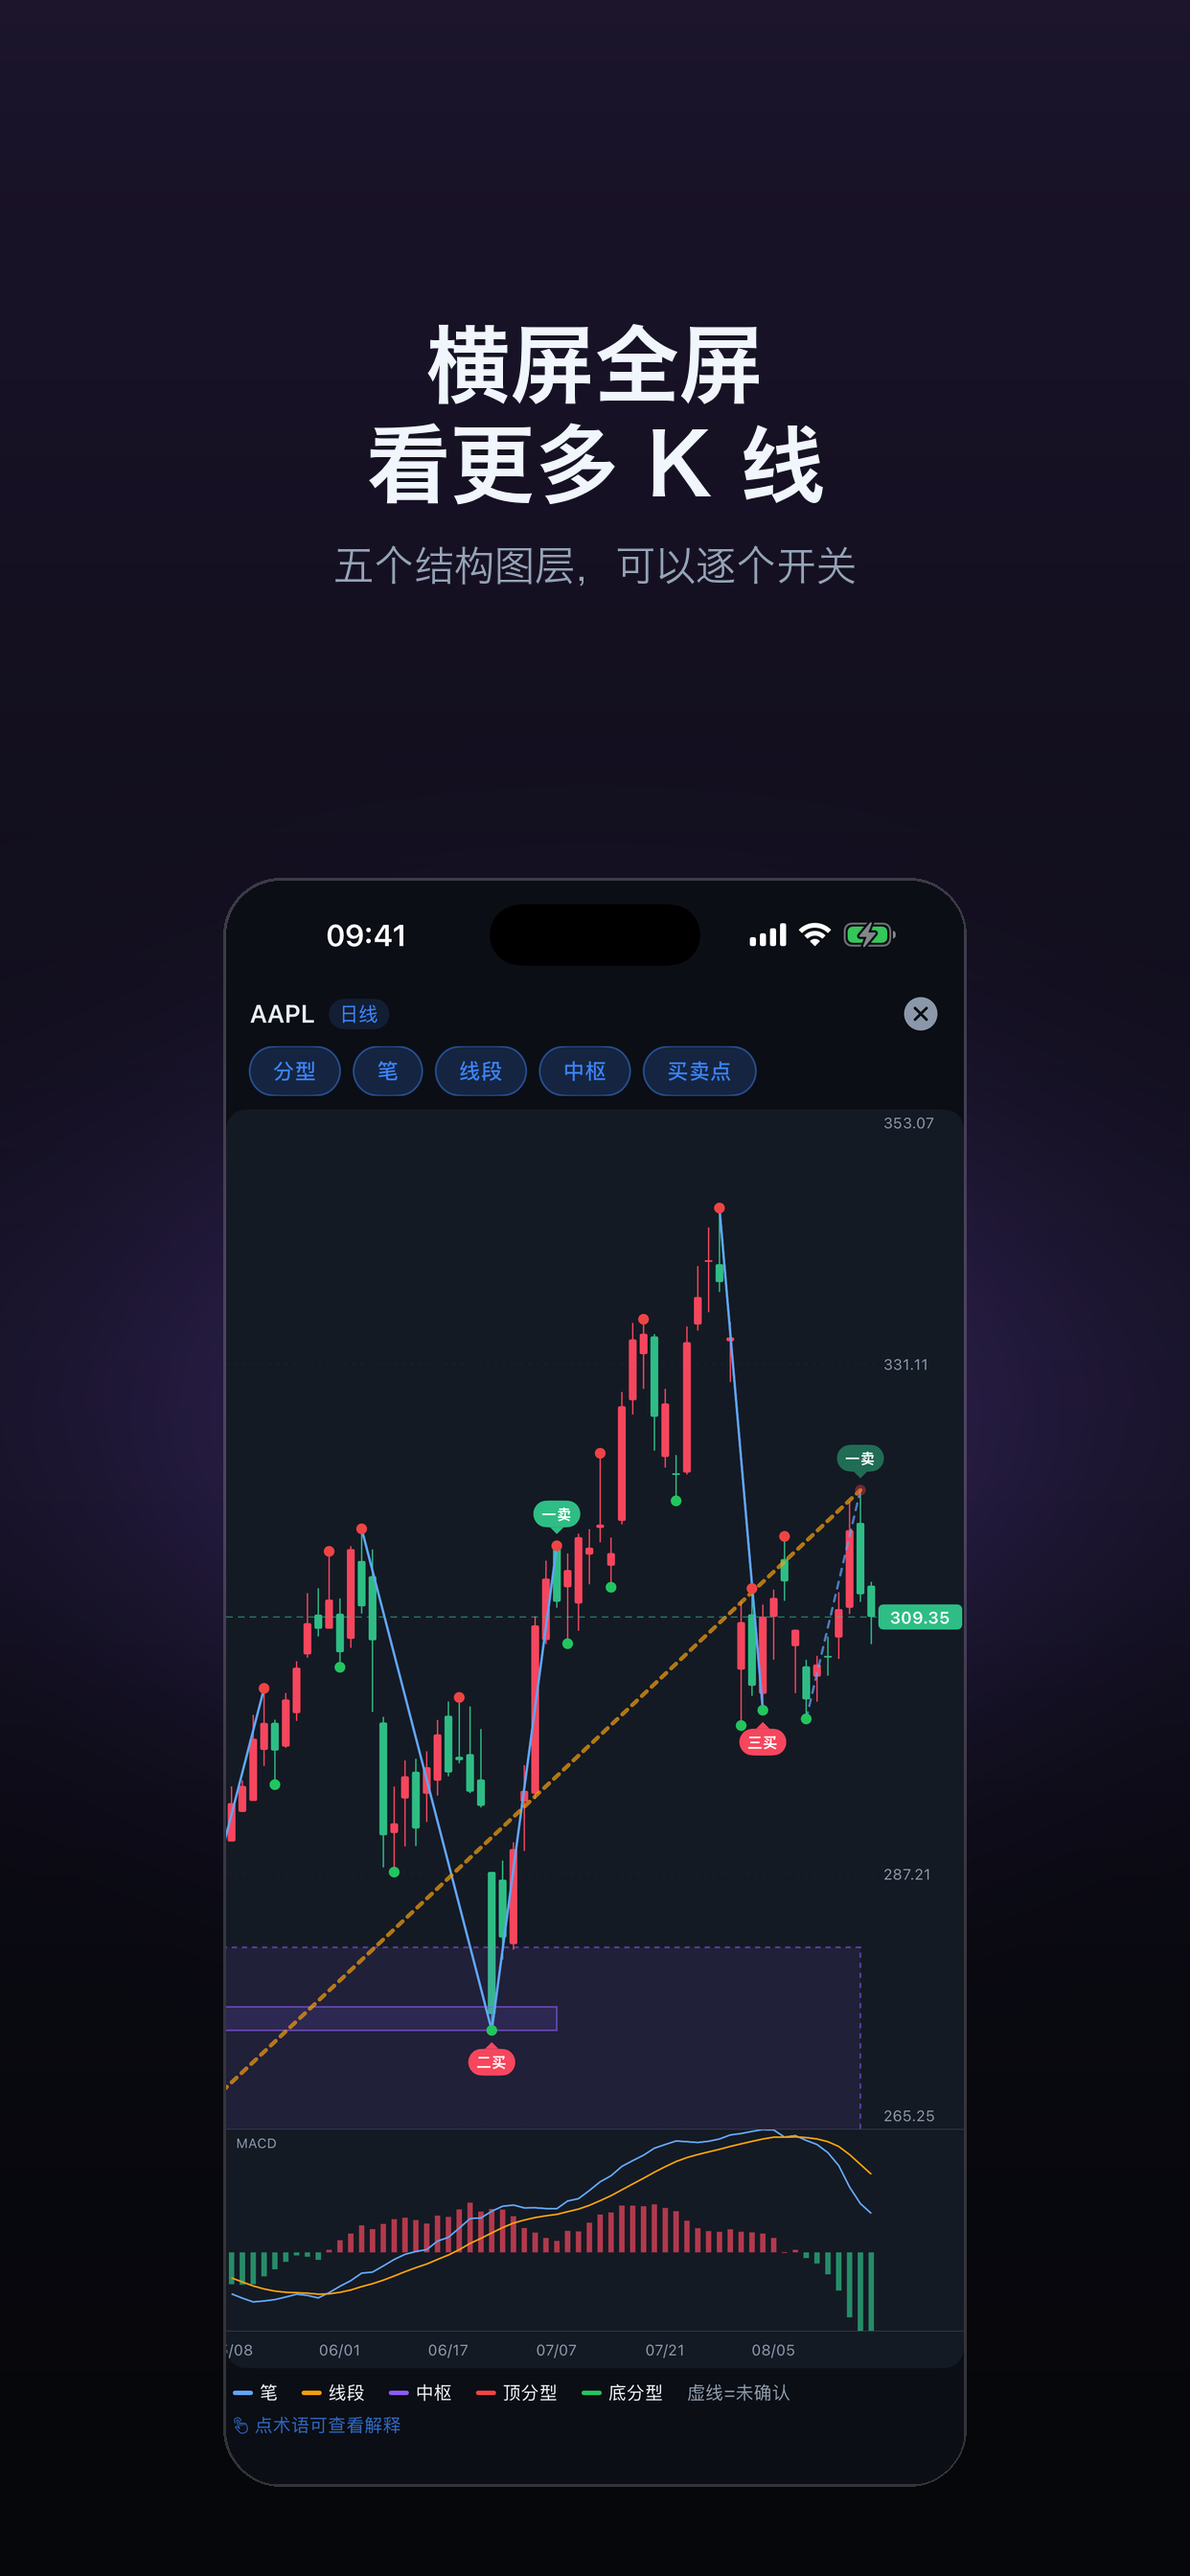
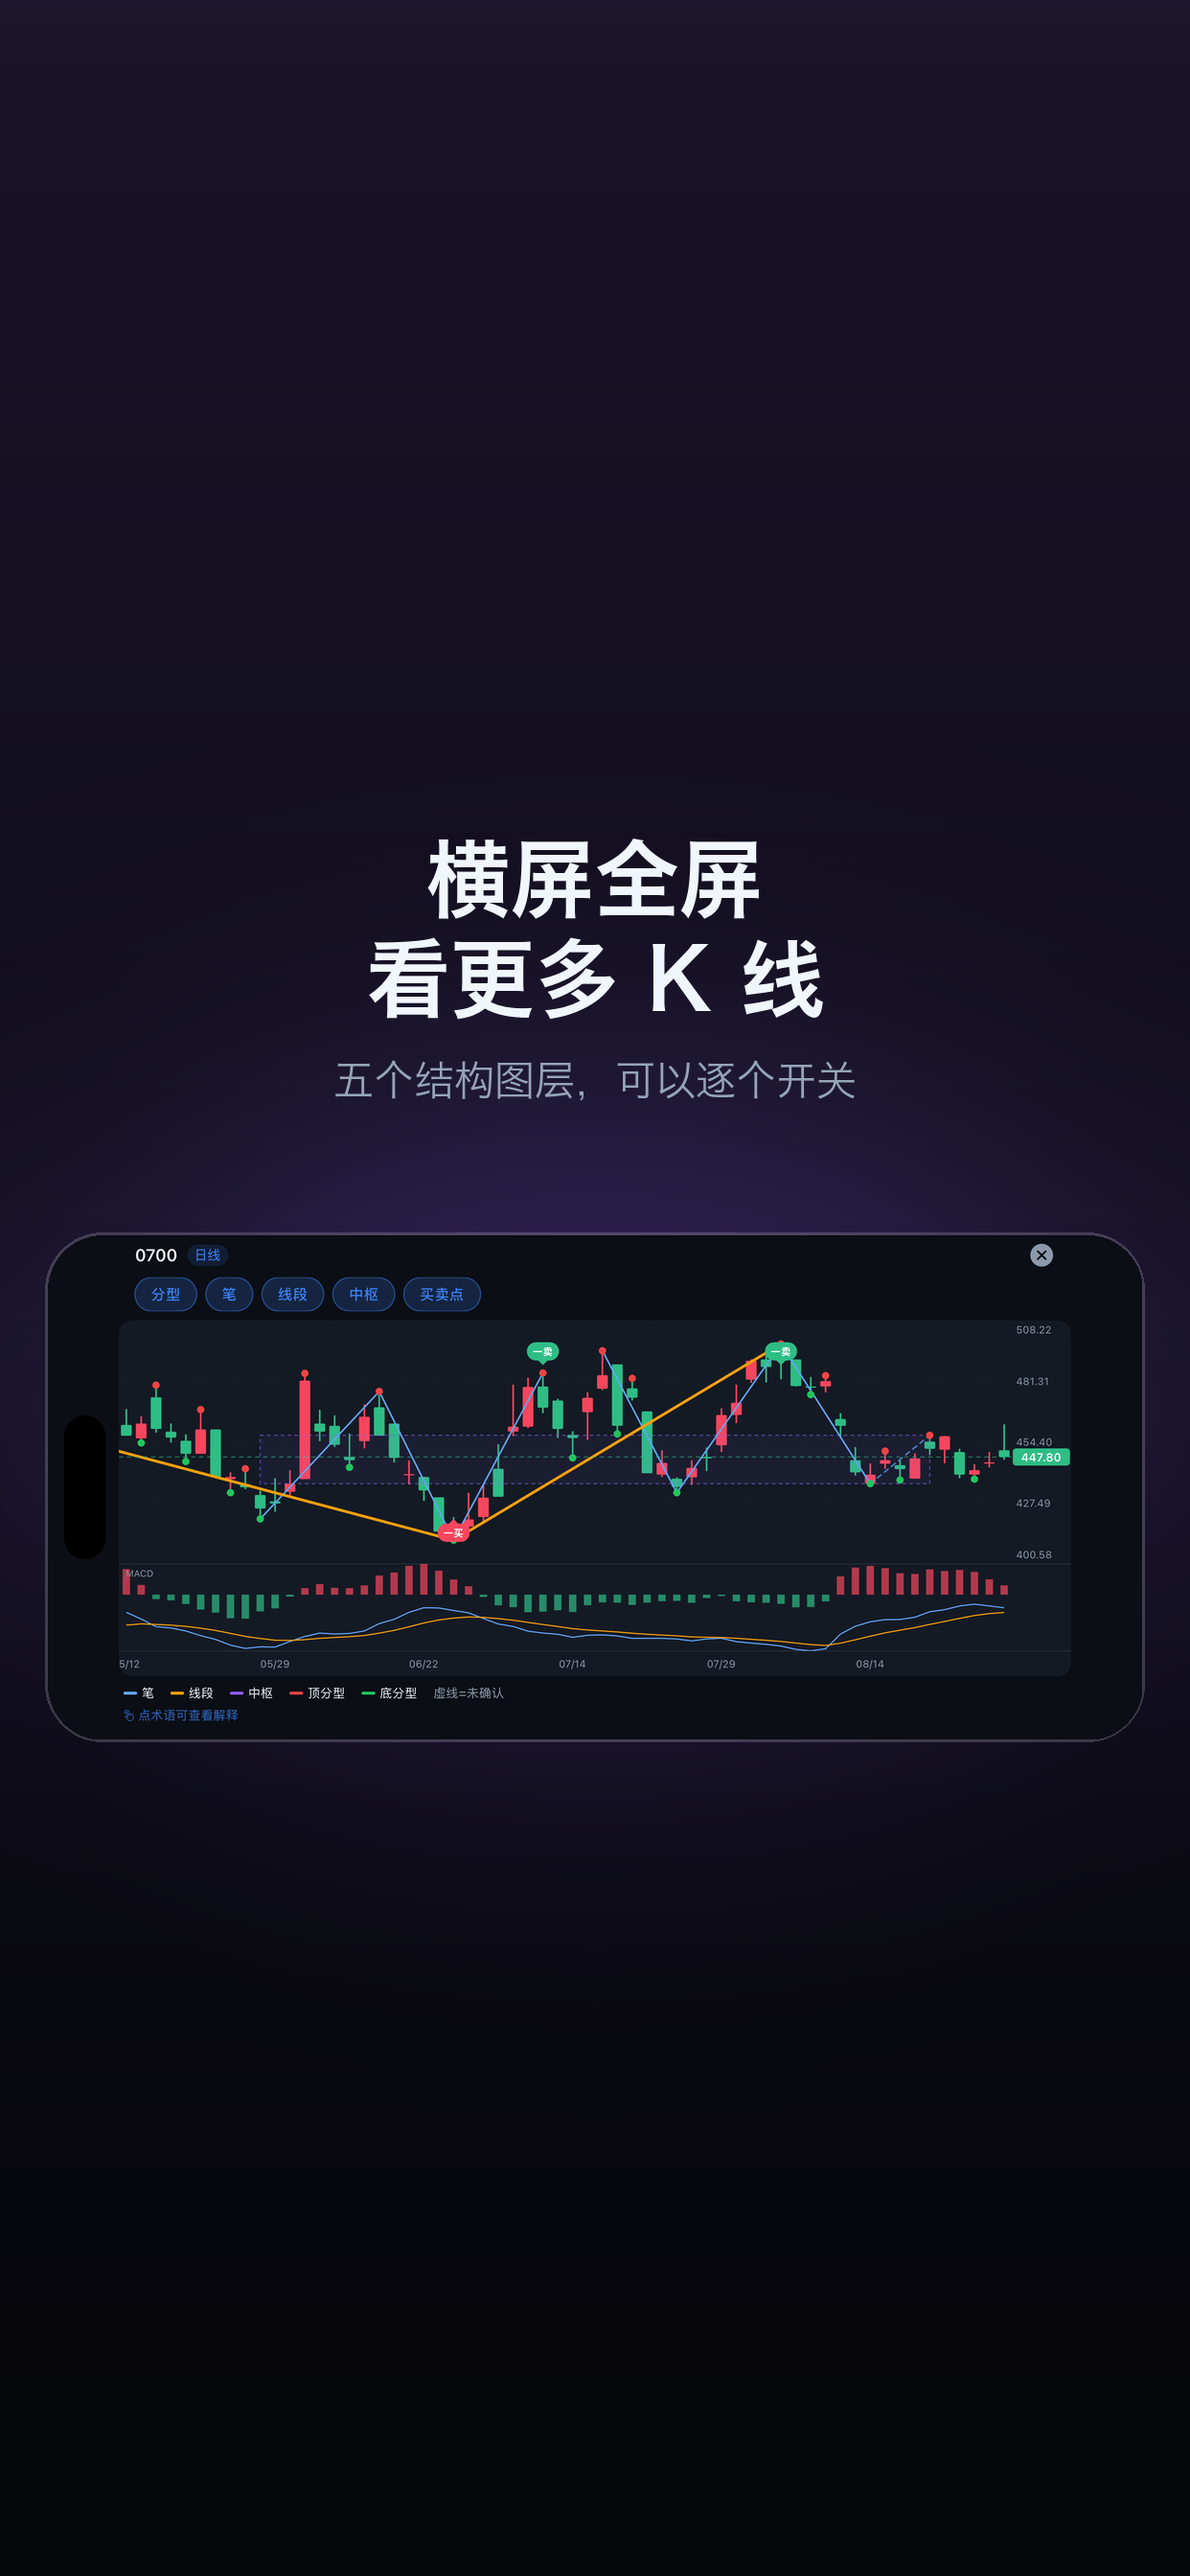
fix(ios/chan): 全屏截图改用真实的横屏画面，脚本支持横版排版
标题写的是「横屏全屏」，但那张源图是竖版正立的全屏图表，文案与图不符。

实测确认：点全屏后 App 确实转横屏（openFullscreen 调 enterLandscape），
只是 simctl 截的是设备帧缓冲、模拟器窗口不跟着转，截出来的是内容躺倒的
竖版图。逆时针 90° 转正后得到 2868×1320 的真实横屏画面。

make_captioned.py 相应支持横版源图：
- 机身宽度从 62% 放到 92%，否则一条又矮又窄的图什么都看不清
- 横版机身只有画布高度的两成，贴底或居中都会在某一侧空出一大片，
  改成把「标题块 + 机身」当整体在画布里垂直居中，上下留白才对称
- 排版度量提前计算，竖版仍走原来的「机身贴底、标题在其上方居中」

diff --git a/ios/AppStore/chan/make_captioned.py b/ios/AppStore/chan/make_captioned.py
@@ -118,13 +118,34 @@ def build(p: Preset, name: str, title: str, sub: str, accent: tuple[int, int, in
     shot = Image.open(SRC / name).convert("RGB")
     s = p.scale
     font_title, font_sub = p.font_title, p.font_sub
+    landscape = shot.width > shot.height
 
-    # 机身宽度定在 62%：留足顶部空间放两行大标题，同时底部不贴边。
-    # 高度按**源图**比例算，所以换画布尺寸不会把截图拉变形。
-    dev_w = round(818 * s)
+    # 竖版：机身宽度 62%，贴着画布底部，上方留给两行大标题。
+    # 横版（全屏图表那张）：机身放宽到 92%，否则一条又矮又窄的图什么都看不清；
+    # 因为它很矮，贴底会在标题和机身之间留一大片空，改成在下半区居中。
+    # 两种情况下高度都按**源图**比例算，所以换画布尺寸不会把截图拉变形。
+    dev_w = round((1214 if landscape else 818) * s)
     dev_h = round(dev_w * shot.height / shot.width)
     dev_x = (p.w - dev_w) // 2
-    dev_y = p.h - dev_h - round(102 * s)
+
+    # 标题排版度量。横版要先知道标题块多高才能定机身位置，所以提前算。
+    lines = title.split("\n")
+    lh = round(110 * s)
+    block_h = lh * len(lines)
+    sub_gap = round(28 * s)
+    title_h = block_h + sub_gap + round(45 * s)
+
+    if landscape:
+        # 横版机身只有画布高度的两成，贴底或居中都会在某一侧空出一大片。
+        # 把「标题块 + 机身」当成一个整体在画布里垂直居中，上下留白才对称。
+        gap = round(150 * s)
+        top = (p.h - (title_h + gap + dev_h)) // 2
+        ty = top
+        dev_y = top + title_h + gap
+    else:
+        dev_y = p.h - dev_h - round(102 * s)
+        # 竖版：标题块在机身上方的空间里居中，不同长度的标题不会跳
+        ty = (dev_y - round(128 * s) - block_h) // 2 + round(42 * s)
 
     canvas = gradient(p, accent)
     glow(p, canvas, accent, p.w // 2, dev_y + dev_h // 3, round(595 * s))
@@ -141,17 +162,13 @@ def build(p: Preset, name: str, title: str, sub: str, accent: tuple[int, int, in
 
     draw = ImageDraw.Draw(canvas)
 
-    # 标题：两行，行距 1.18；整体按可用高度垂直居中，不同长度的标题不会跳。
-    lines = title.split("\n")
-    lh = round(110 * s)
-    block_h = lh * len(lines)
-    ty = (dev_y - round(128 * s) - block_h) // 2 + round(42 * s)
+    # 标题：每行行距 1.18，居中排版；位置 ty 在上面按版式算好了。
     for i, line in enumerate(lines):
         w = draw.textlength(line, font=font_title)
         draw.text(((p.w - w) / 2, ty + i * lh), line, font=font_title, fill=INK)
 
     sw = draw.textlength(sub, font=font_sub)
-    draw.text(((p.w - sw) / 2, ty + block_h + round(28 * s)), sub, font=font_sub, fill=MUTED)
+    draw.text(((p.w - sw) / 2, ty + block_h + sub_gap), sub, font=font_sub, fill=MUTED)
 
     out_dir = BASE / p.out
     out_dir.mkdir(exist_ok=True)
